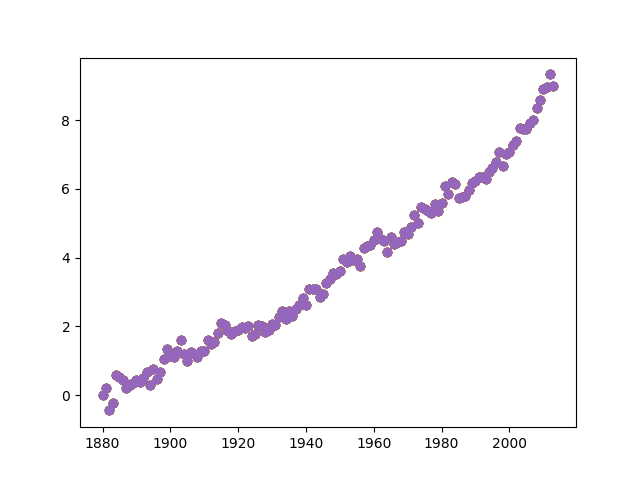
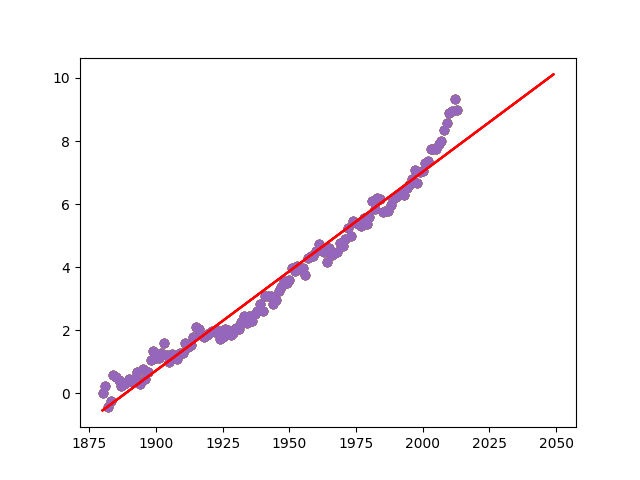
feat: create and plot first fit

diff --git a/sea_level_predictor.py b/sea_level_predictor.py
@@ -1,5 +1,6 @@
 import pandas as pd
 import matplotlib.pyplot as plt
+import numpy as np
 from scipy.stats import linregress
 
 def draw_plot():
@@ -10,7 +11,9 @@ def draw_plot():
     plt.scatter(x=df['Year'], y=df['CSIRO Adjusted Sea Level'])
 
     # Create first line of best fit
-
+    slope, intercept = linregress(x=df['Year'], y=df['CSIRO Adjusted Sea Level'])[0:2]
+    ext_years = np.arange(df['Year'].iloc[0], 2050)
+    plt.plot(ext_years, intercept + slope*ext_years, 'r')
 
     # Create second line of best fit
 
